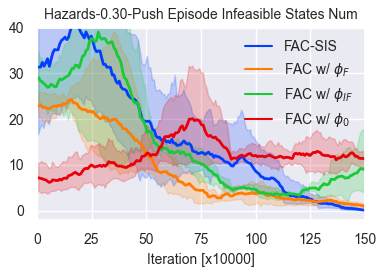
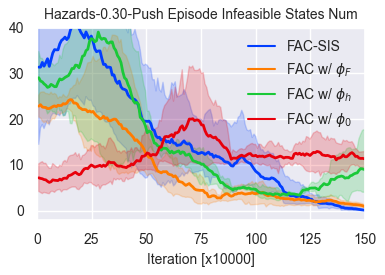
update plots

diff --git a/data_process/lineplot_aaai.py b/data_process/lineplot_aaai.py
@@ -16,7 +16,7 @@ paper = True
 sns.set(style="darkgrid")
 if paper: sns.set(font_scale=1.)
 fontsize = 10 if paper else 16
-SMOOTHFACTOR = 0.4
+SMOOTHFACTOR = 0.15
 SMOOTHFACTOR2 = 24
 DIV_LINE_WIDTH = 50
 txt_store_alg_list = ['CPO', 'PPO-L', 'TRPO-L','PPO-DA','PPO-H','FSAC-0','PPO-H2',]
@@ -39,21 +39,21 @@ legend_font_prop = dict(family='Microsoft YaHei')
 
 
 def help_func():
-    tag2plot = ['episode_cost'] #,'episode_cost', 'episode_return'
-    # tag2plot = ['ep_phi_increase_times']
+    # tag2plot = ['episode_cost'] #,'episode_cost', 'episode_return'
+    tag2plot = ['ep_phi_increase_times']
     # tag2plot = ['cost_rate']
-    alg_list = ['PPO-DA','FSAC', 'FSAC-0', 'TRPO-L', 'CPO', 'PPO-L'] #
-    # alg_list = ['PPO-DA','PPO-H','PPO-H2','FSAC-0'] #
+    # alg_list = ['PPO-DA','FSAC', 'FSAC-0', 'TRPO-L', 'CPO', 'PPO-L'] #
+    alg_list = ['PPO-DA','PPO-H','PPO-H2','FSAC-0'] #
     # alg_list = ['PPO-DA', 'FSAC', 'PPO-H2', 'FSAC-0']  #
     # alg_list = ['FSAC-A','FSAC','FSAC-0'] # 'FSAC-A'
     # alg_list = ['PPO-DA', 'PPO-H', 'FSAC-0', 'TRPO-L', 'CPO', 'PPO-L']  #
     # alg_list = ['PPO-DA', 'FSAC', 'FSAC-0', 'TRPO-L', 'CPO', 'PPO-L']  #
     # lbs = ['SSAC', 'FSAC-A' ] # , 'TRPO-Lagrangian', 'CPO', 'PPO-Lagrangian'
     # lbs = [r'$\phi_h$', r'$\phi_\xi$']
-    lbs = ['FAC-SIS', r'FAC w/ $\phi_h$', r'FAC w/ $\phi_0$', 'TRPO-L', 'CPO', 'PPO-L'] #
-    # lbs = ['FAC-SIS', r'FAC w/ $\phi_{F}$',  r'FAC w/ $\phi_{IF}$', r'FAC w/ $\phi_0$',]
-    task = ['CustomGoal2'] # 'CustomGoal2','CustomPush1','CustomGoal3',
-    # task = ['CustomPush1','CustomPush2','CustomGoal3',] # 'CustomGoal2','CustomPush1','CustomGoal3',
+    # lbs = ['FAC-SIS', r'FAC w/ $\phi_h$', r'FAC w/ $\phi_0$', 'TRPO-L', 'CPO', 'PPO-L'] #
+    lbs = ['FAC-SIS', r'FAC w/ $\phi_{F}$',  r'FAC w/ $\phi_h$', r'FAC w/ $\phi_0$',]
+    # task = ['CustomGoal2'] # 'CustomGoal2','CustomPush1','CustomGoal3',
+    task = ['CustomPush1','CustomPush2','CustomGoal3',] # 'CustomGoal2','CustomPush1','CustomGoal3',
     palette = "bright"
     goal_perf_list = [-200, -100, -50, -30, -20, -10, -5]
     dir_str = '../results/{}/{}' # .format(algo name) # /data2plot
